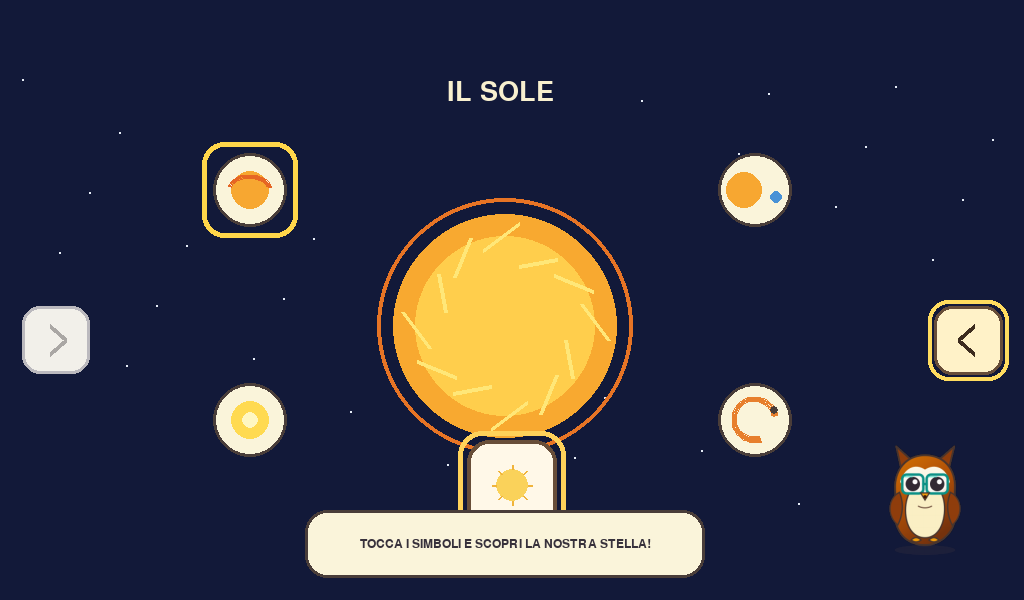
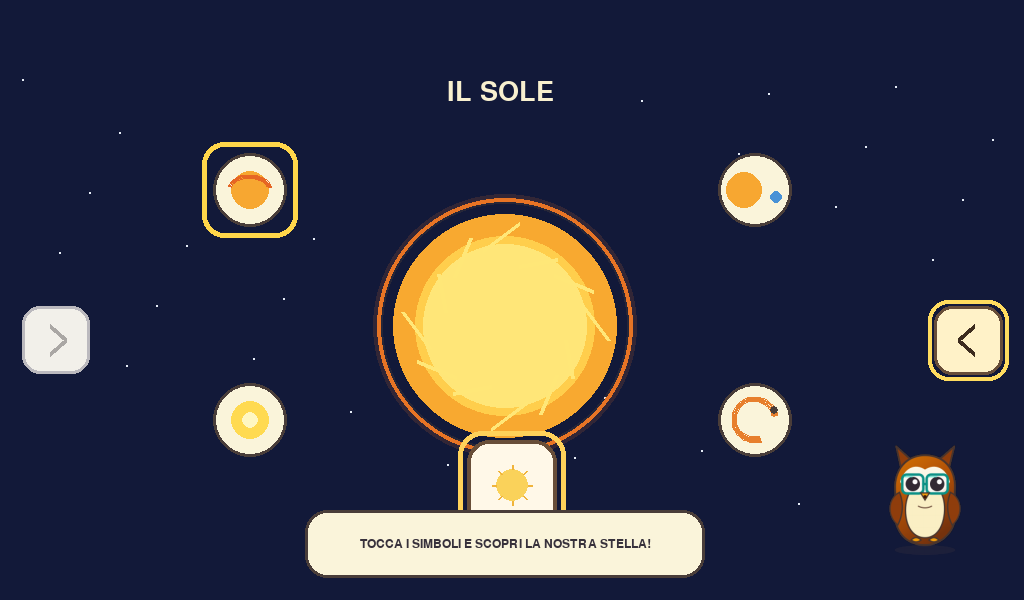
Encyclopedia: iterate space.sun - corona glow + inner highlight
Iterative polish. Sun now with soft corona glow and inner highlight, more tactile.

diff --git a/activities/enciclopedia_greia/pages/sun.py b/activities/enciclopedia_greia/pages/sun.py
@@ -205,9 +205,19 @@ class SunPage(EncyclopediaPage):
         center = (505, 326)
         radius = 112
         pulse = int(4 * math.sin(self._time * 2.0))
+        # Corona with soft glow
+        glow = pygame.Surface((radius * 2 + 40, radius * 2 + 40), pygame.SRCALPHA)
+        pygame.draw.circle(glow, (231, 116, 37, 38), (radius + 20, radius + 20), radius + 20, 8)
+        pygame.draw.circle(glow, (248, 169, 48, 22), (radius + 20, radius + 20), radius + 14, 4)
+        surface.blit(glow, (center[0] - radius - 20, center[1] - radius - 20))
         pygame.draw.circle(surface, (231, 116, 37), center, radius + 13 + pulse, 4)
         pygame.draw.circle(surface, (248, 169, 48), center, radius)
+        # Inner highlight for depth
+        hl = pygame.Surface((radius * 2, radius * 2), pygame.SRCALPHA)
+        pygame.draw.circle(hl, (255, 235, 140, 40), (radius - 18, radius - 22), radius // 2)
+        surface.blit(hl, (center[0] - radius, center[1] - radius))
         pygame.draw.circle(surface, (255, 206, 76), center, radius - 22)
+        pygame.draw.circle(surface, (255, 230, 120, 30), center, radius - 30)
 
         for index in range(12):
             angle = self._time * 0.22 + index * math.tau / 12
